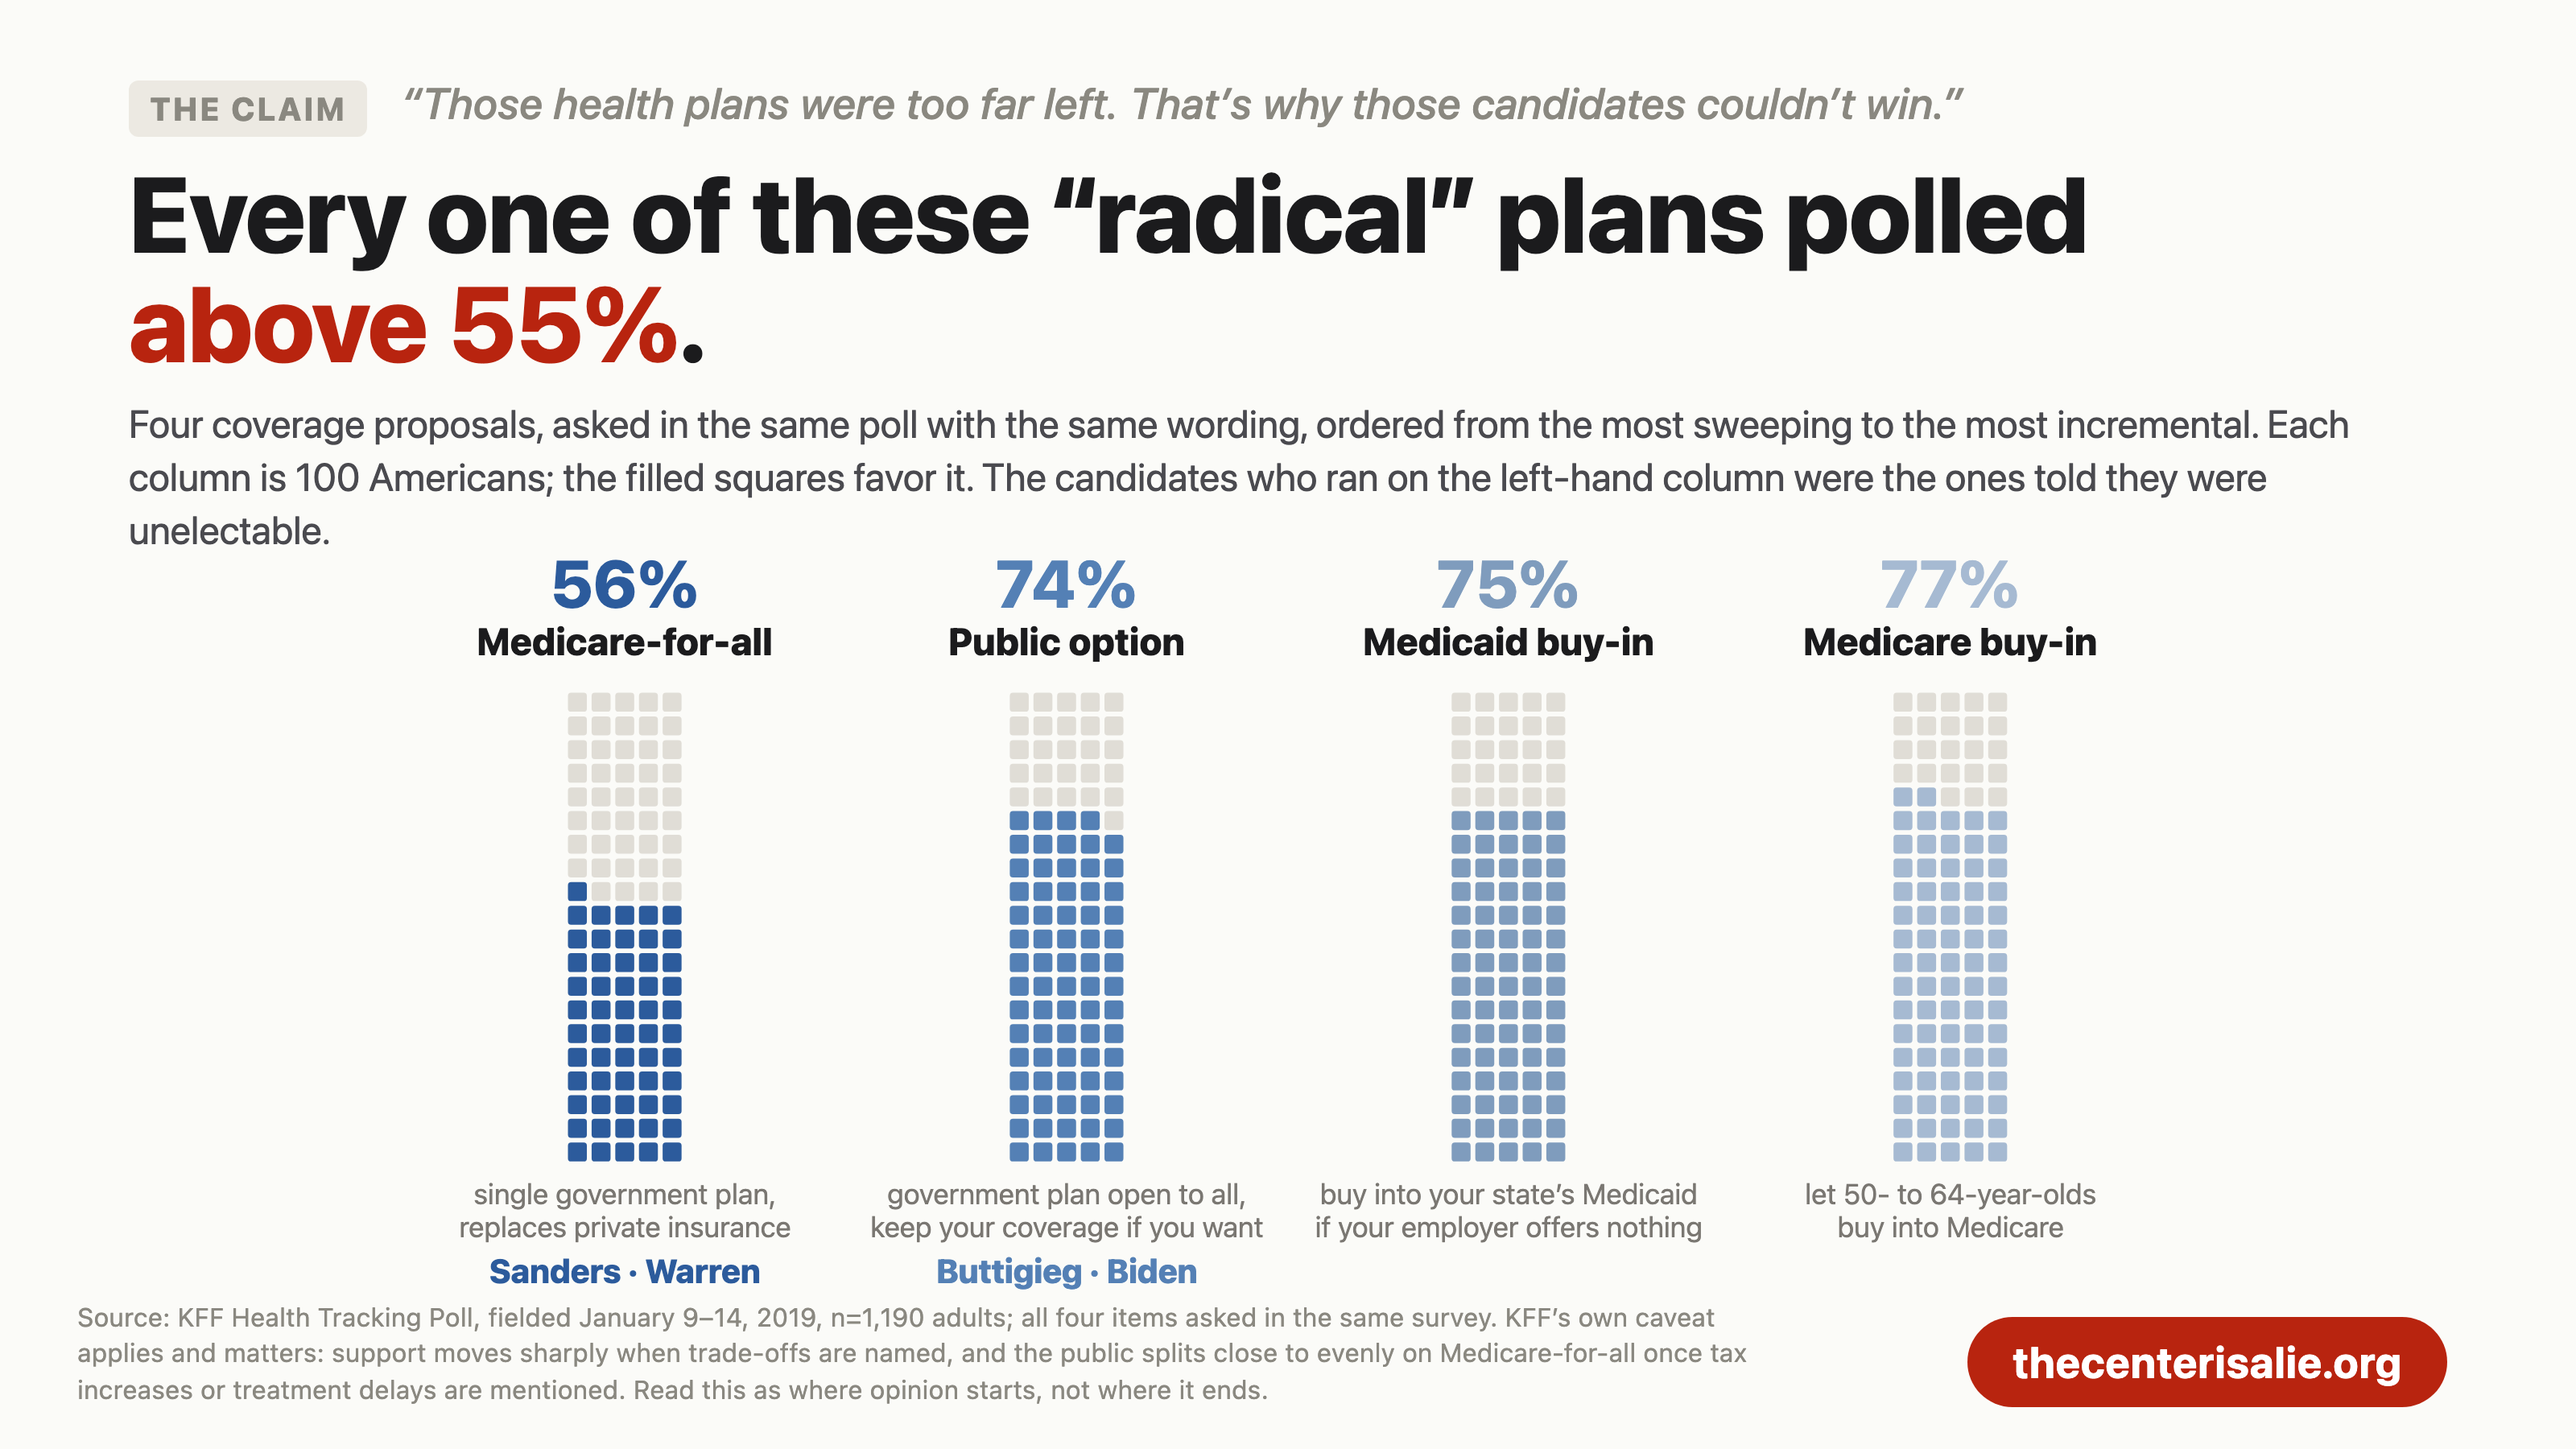
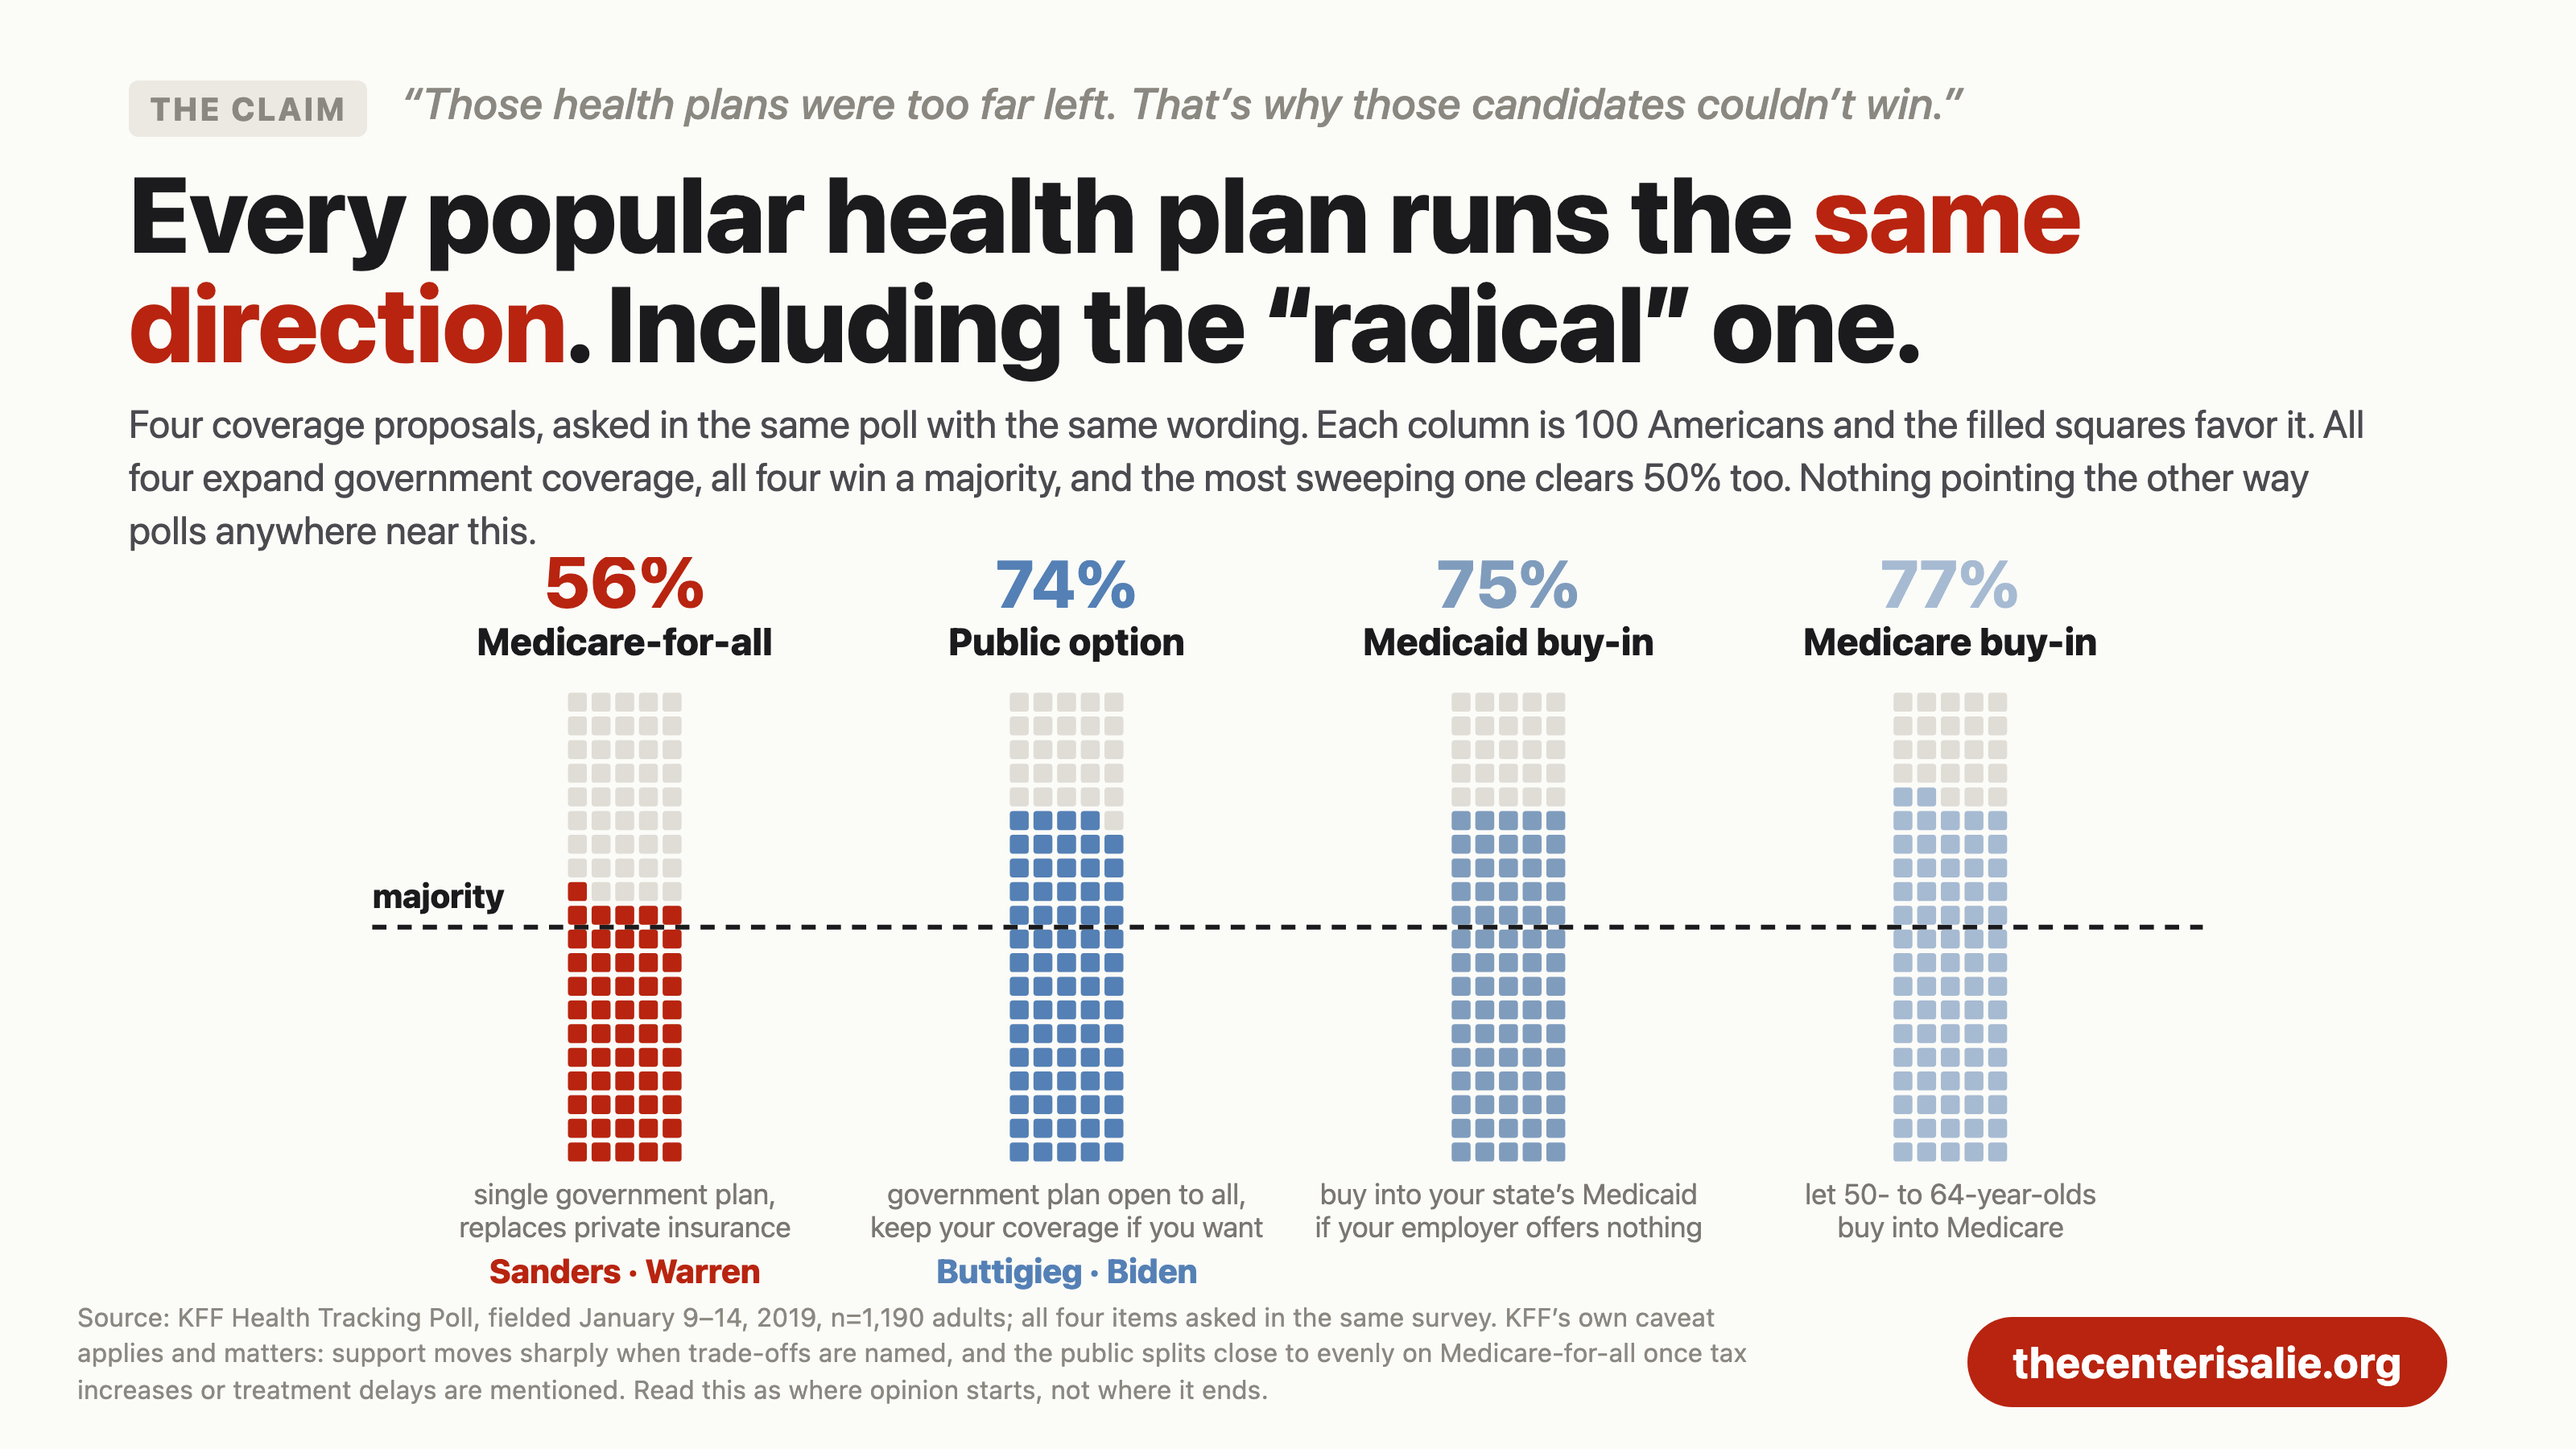
fix(og): reframe proposals so it stops reading as a ranking
Ordering the four items sweeping-to-incremental made the chart read as a league
table with Medicare-for-all in last place, which is the opposite of the point.

The comparison that matters is not M4A against the other three expansions, it
is all four against the direction nobody polls well in. Added a majority line
across all four columns so the threshold doing the work is 50%, not the gap
between 56 and 77, and put M4A in the accent colour rather than the palest
blue.

I could not add a right-hand anchor from the same poll: the ACA-repeal item is
measured as priority importance, not favour/oppose, so it is not commensurable
with these four and mixing the two measures would be worse than omitting it.
The subhead carries that point in words instead.

diff --git a/web/og-cards/chart-proposals.html b/web/og-cards/chart-proposals.html
@@ -3,8 +3,8 @@
 <body>
   <div class="chartcard">
     <div class="cc-claim"><span class="tag">The claim</span> &ldquo;Those health plans were too far left. That&rsquo;s why those candidates couldn&rsquo;t win.&rdquo;</div>
-    <div class="cc-title">Every one of these &ldquo;radical&rdquo; plans polled <span class="hl">above 55%</span>.</div>
-    <div class="cc-sub">Four coverage proposals, asked in the same poll with the same wording, ordered from the most sweeping to the most incremental. Each column is 100 Americans; the filled squares favor it. The candidates who ran on the left-hand column were the ones told they were unelectable.</div>
+    <div class="cc-title">Every popular health plan runs the <span class="hl">same direction</span>. Including the &ldquo;radical&rdquo; one.</div>
+    <div class="cc-sub">Four coverage proposals, asked in the same poll with the same wording. Each column is 100 Americans and the filled squares favor it. All four expand government coverage, all four win a majority, and the most sweeping one clears 50% too. Nothing pointing the other way polls anywhere near this.</div>
 
     <div class="cc-chart"><svg id="pr" viewBox="0 0 1240 470" role="img"
       aria-label="Four health proposals as columns of 100 squares each. Medicare-for-all 56 percent favor, public option 74 percent, Medicaid buy-in 75 percent, Medicare buy-in for ages 50 to 64 77 percent."></svg></div>
@@ -23,7 +23,7 @@
 
     const props = [
       { pct: 56, n: ['Medicare-for-all'], s: 'single government plan,', s2: 'replaces private insurance',
-        who: 'Sanders · Warren', c: '#2c5b9c' },
+        who: 'Sanders · Warren', c: '#b8240f' },
       { pct: 74, n: ['Public option'],    s: 'government plan open to all,', s2: 'keep your coverage if you want',
         who: 'Buttigieg · Biden', c: '#5480b5' },
       { pct: 75, n: ['Medicaid buy-in'],  s: 'buy into your state&rsquo;s Medicaid', s2: 'if your employer offers nothing',
@@ -36,6 +36,12 @@
     const blockW = COLS * (cell + gap) - gap;
     const span = 1240 - 120, step = span / props.length;
 
+    const yFor = (pct) => TOP + (ROWS - pct / COLS) * (cell + gap) - gap / 2;
+    // majority line: the threshold that actually matters, drawn across all four
+    const majY = yFor(50);
+    svg.appendChild(el('line', { x1: 40, y1: majY, x2: 1200, y2: majY, stroke: '#1b1b1d', 'stroke-width': 3, 'stroke-dasharray': '9 7' }));
+    txt({ x: 40, y: majY - 12, 'text-anchor': 'start', fill: '#1b1b1d', 'font-size': 21, 'font-weight': 800 }, 'majority');
+
     props.forEach((p, k) => {
       const bx = 60 + step * k + (step - blockW) / 2;
       // 100 squares, filled from the bottom up so the favouring share reads as a level
@@ -46,7 +52,7 @@
           width: cell, height: cell, rx: 2, fill: on ? p.c : '#e0ddd6' }));
       }
       const cx = bx + blockW / 2;
-      txt({ x: cx, y: TOP - 54, 'text-anchor': 'middle', fill: p.c, 'font-size': 42, 'font-weight': 800 }, p.pct + '%');
+      txt({ x: cx, y: TOP - 54, 'text-anchor': 'middle', fill: k === 0 ? '#b8240f' : p.c, 'font-size': k === 0 ? 46 : 42, 'font-weight': 800 }, p.pct + '%');
       p.n.forEach((ln, j) => txt({ x: cx, y: TOP - 24 + j * 24, 'text-anchor': 'middle', fill: '#1b1b1d', 'font-size': 24, 'font-weight': 800 }, ln));
       const yb = TOP + ROWS * (cell + gap) + 24;
       txt({ x: cx, y: yb, 'text-anchor': 'middle', fill: '#7a7772', 'font-size': 18 }, p.s.replace('&rsquo;', '’'));
